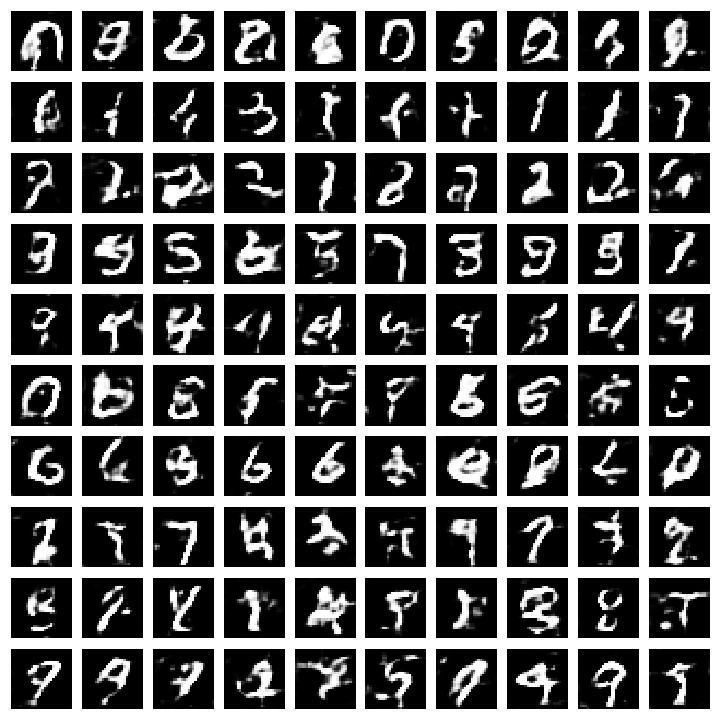
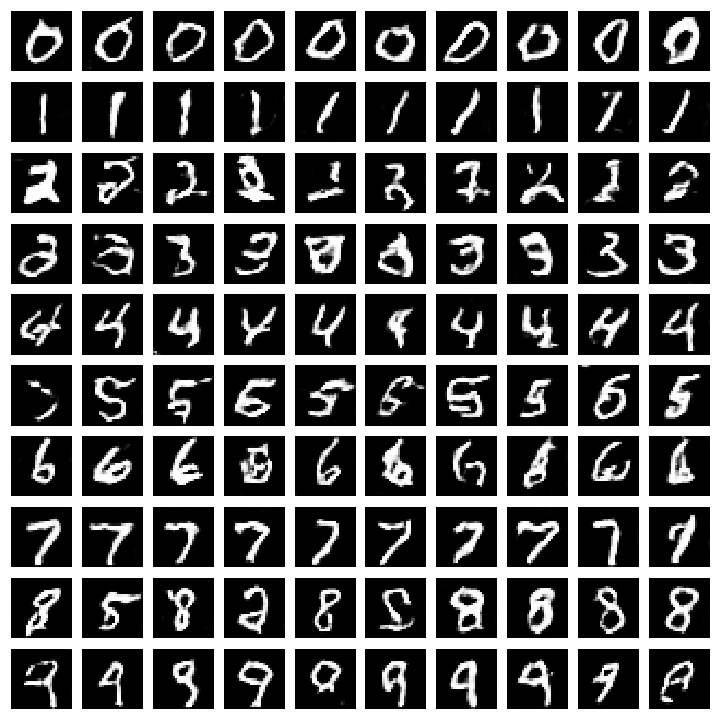
CGAN new architecture rerun

diff --git a/CGAN/main.py b/CGAN/main.py
@@ -56,20 +56,20 @@ image_input = Input(shape=X.shape[1:])
 concatenate1 = Concatenate()([image_input, dense2])
 
 depth = 64
-dropout = 0.5
+dropout = 0.25
 D = Sequential()
-# Input layer
-D.add(Conv2D(depth*1, 5, strides=2, input_shape=(28,28,2),padding='same', kernel_initializer='glorot_normal'))
+D.add(Conv2D(depth, kernel_size=3, strides=2, input_shape=X.shape[1:], padding="same"))
 D.add(LeakyReLU(alpha=0.2))
 D.add(Dropout(dropout))
-# Second layer
-D.add(Conv2D(depth*2, 5, strides=2, padding='same', kernel_initializer='glorot_normal'))
+D.add(Conv2D(depth*2, kernel_size=3, strides=2, padding="same"))
+D.add(ZeroPadding2D(padding=((0,1),(0,1))))
 D.add(LeakyReLU(alpha=0.2))
 D.add(Dropout(dropout))
-# Third layer
-D.add(Conv2D(depth*4, 5, strides=2, padding='same', kernel_initializer='glorot_normal'))
+D.add(BatchNormalization(momentum=0.8))
+D.add(Conv2D(depth*4, kernel_size=3, strides=2, padding="same"))
 D.add(LeakyReLU(alpha=0.2))
 D.add(Dropout(dropout))
+D.add(BatchNormalization(momentum=0.8))
 D.add(Flatten())
 # Output layer
 D.add(Dense(1, kernel_initializer='glorot_normal'))
@@ -87,26 +87,25 @@ plot_model(disc_model, to_file='discriminator.png', show_shapes=True, show_layer
 #==========================Generator model=====================================
 # Define architecture of the generator (fraudster AI)
 # Note: with each layer, the image gets larger but with reduced depth
-dropout = 0.5
 depth = 64*2
 dim = 7
 noise_vec = 266
+
 gen_model = Sequential()
 
-gen_model.add(Dense(dim*dim*depth, input_dim=noise_vec, kernel_initializer='glorot_normal'))
-gen_model.add(BatchNormalization(momentum=0.9))
-gen_model.add(LeakyReLU(alpha=0.3))
-gen_model.add(Reshape((dim, dim, depth)))
-gen_model.add(Dropout(dropout))
-
-gen_model.add(UpSampling2D())
-gen_model.add(Conv2DTranspose(int(depth/2), 5, padding='same', kernel_initializer='glorot_normal'))
+gen_model.add(Dense(depth*dim*dim, activation="relu", input_dim=noise_vec))
+gen_model.add(Reshape((7, 7, 128)))
 gen_model.add(BatchNormalization(momentum=0.8))
-gen_model.add(LeakyReLU(alpha=0.3))
-
 gen_model.add(UpSampling2D())
-gen_model.add(Conv2DTranspose(1, 5, padding='same', kernel_initializer='glorot_normal'))
-gen_model.add(Activation('sigmoid'))
+gen_model.add(Conv2D(128, kernel_size=3, padding="same"))
+gen_model.add(Activation("relu"))
+gen_model.add(BatchNormalization(momentum=0.8))
+gen_model.add(UpSampling2D())
+gen_model.add(Conv2D(64, kernel_size=3, padding="same"))
+gen_model.add(Activation("relu"))
+gen_model.add(BatchNormalization(momentum=0.8))
+gen_model.add(Conv2D(1, kernel_size=3, padding='same'))
+gen_model.add(Activation("sigmoid"))
 
 # Print out architecture of the generator
 gen_model.summary()
@@ -219,6 +218,6 @@ def train_gan(X, batch_size, epoch, save_interval):
     return(d_loss_hist, gan_loss_hist)
 
 #===============================Train CGAN=====================================
-d_loss_hist, gan_loss_hist = train_gan(X=X, batch_size=16, epoch=60000, save_interval=3000)
+d_loss_hist, gan_loss_hist = train_gan(X=X, batch_size=16, epoch=5, save_interval=1)
 
 plot_loss(d_loss_hist, gan_loss_hist, jump = 1)

diff --git a/LSGAN/main_MNIST.py b/LSGAN/main_MNIST.py
@@ -61,18 +61,22 @@ D = Sequential()
 D.add(Conv2D(depth*1, 5, strides=2, input_shape=X.shape[1:],padding='same', kernel_initializer='glorot_normal'))
 D.add(LeakyReLU(alpha=0.2))
 D.add(Dropout(dropout))
+D.add(BatchNormalization(momentum=0.9))
 # Second layer
 D.add(Conv2D(depth*2, 5, strides=2, padding='same', kernel_initializer='glorot_normal'))
 D.add(LeakyReLU(alpha=0.2))
 D.add(Dropout(dropout))
+D.add(BatchNormalization(momentum=0.9))
 # Third layer
 D.add(Conv2D(depth*4, 5, strides=2, padding='same', kernel_initializer='glorot_normal'))
 D.add(LeakyReLU(alpha=0.2))
 D.add(Dropout(dropout))
+D.add(BatchNormalization(momentum=0.9))
 # Forth layer
 D.add(Conv2D(depth*8, 5, strides=1, padding='same', kernel_initializer='glorot_normal'))
 D.add(LeakyReLU(alpha=0.2))
 D.add(Dropout(dropout))
+D.add(BatchNormalization(momentum=0.9))
 D.add(Flatten())
 # Output layer
 D.add(Dense(1, kernel_initializer='glorot_normal'))
@@ -249,6 +253,7 @@ def train_gan(X, model, batch_size, epoch, save_interval, pretrain=False, pretra
             D.trainable = False
             # Train GAN on the generated data
             gan_loss = GAN.train_on_batch(noise, y)
+            
         # Print loss and accuracy values 
         log_msg = "epoch %d: [D loss: %f, acc: %f]" % (i, d_loss[0], d_loss[1])
         log_msg = "%s  [GAN loss: %f, acc: %f]" % (log_msg, gan_loss[0], gan_loss[1])
